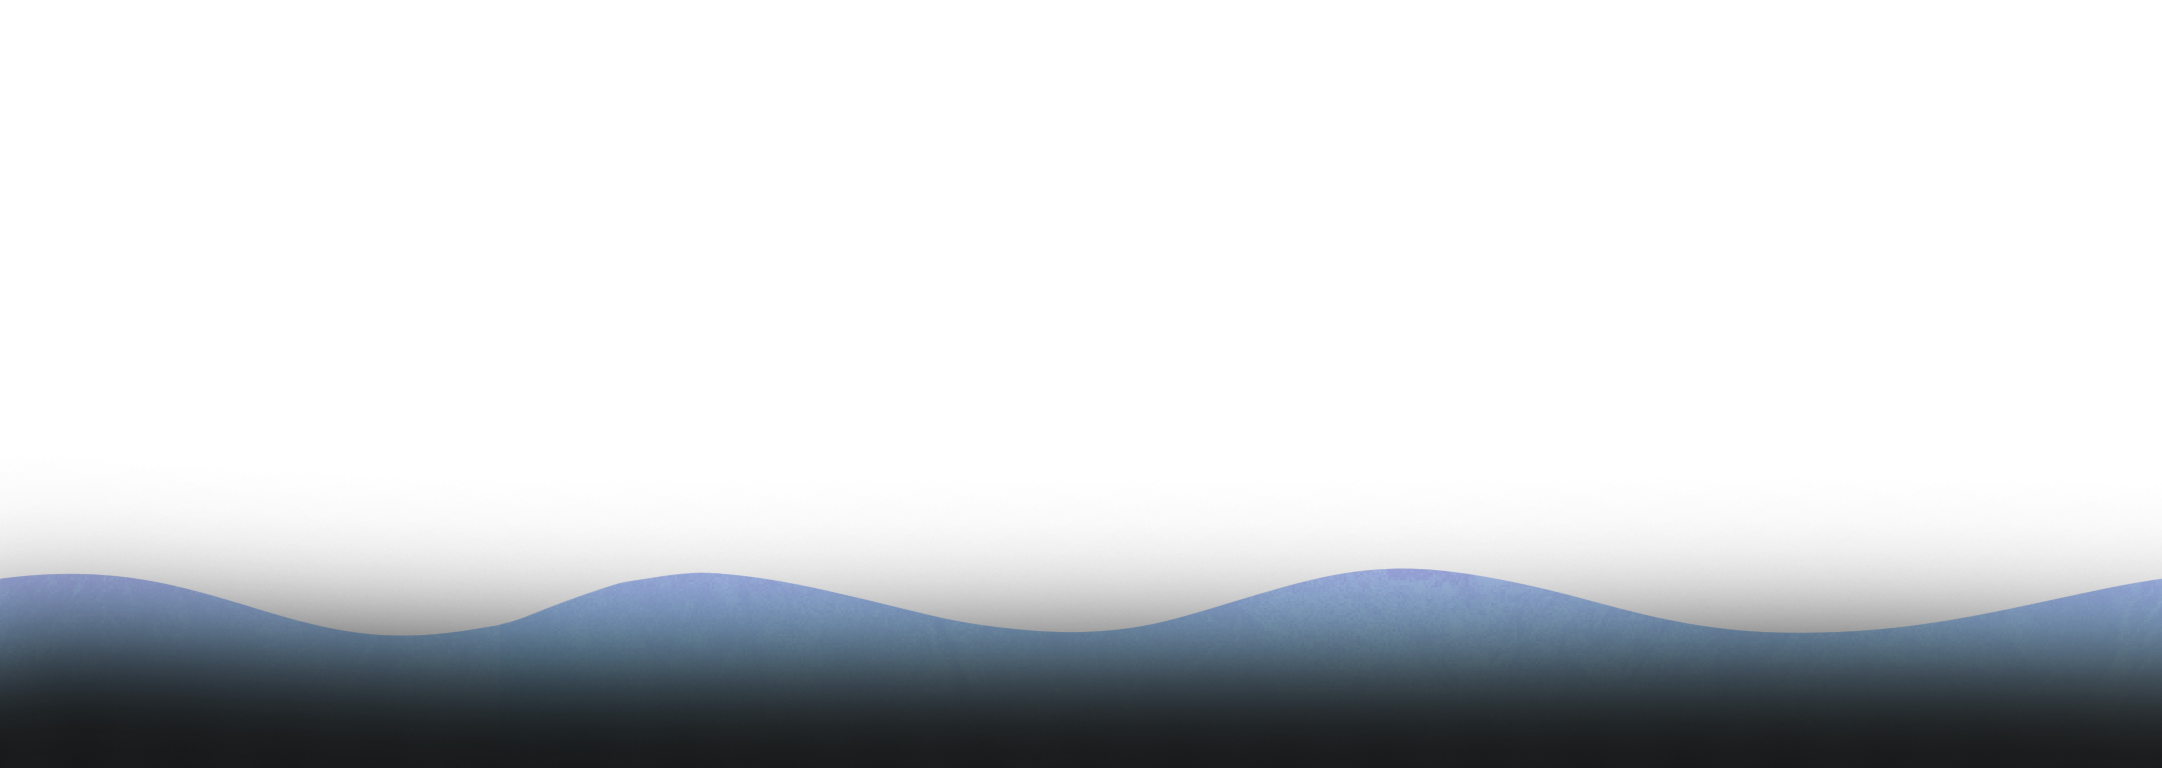
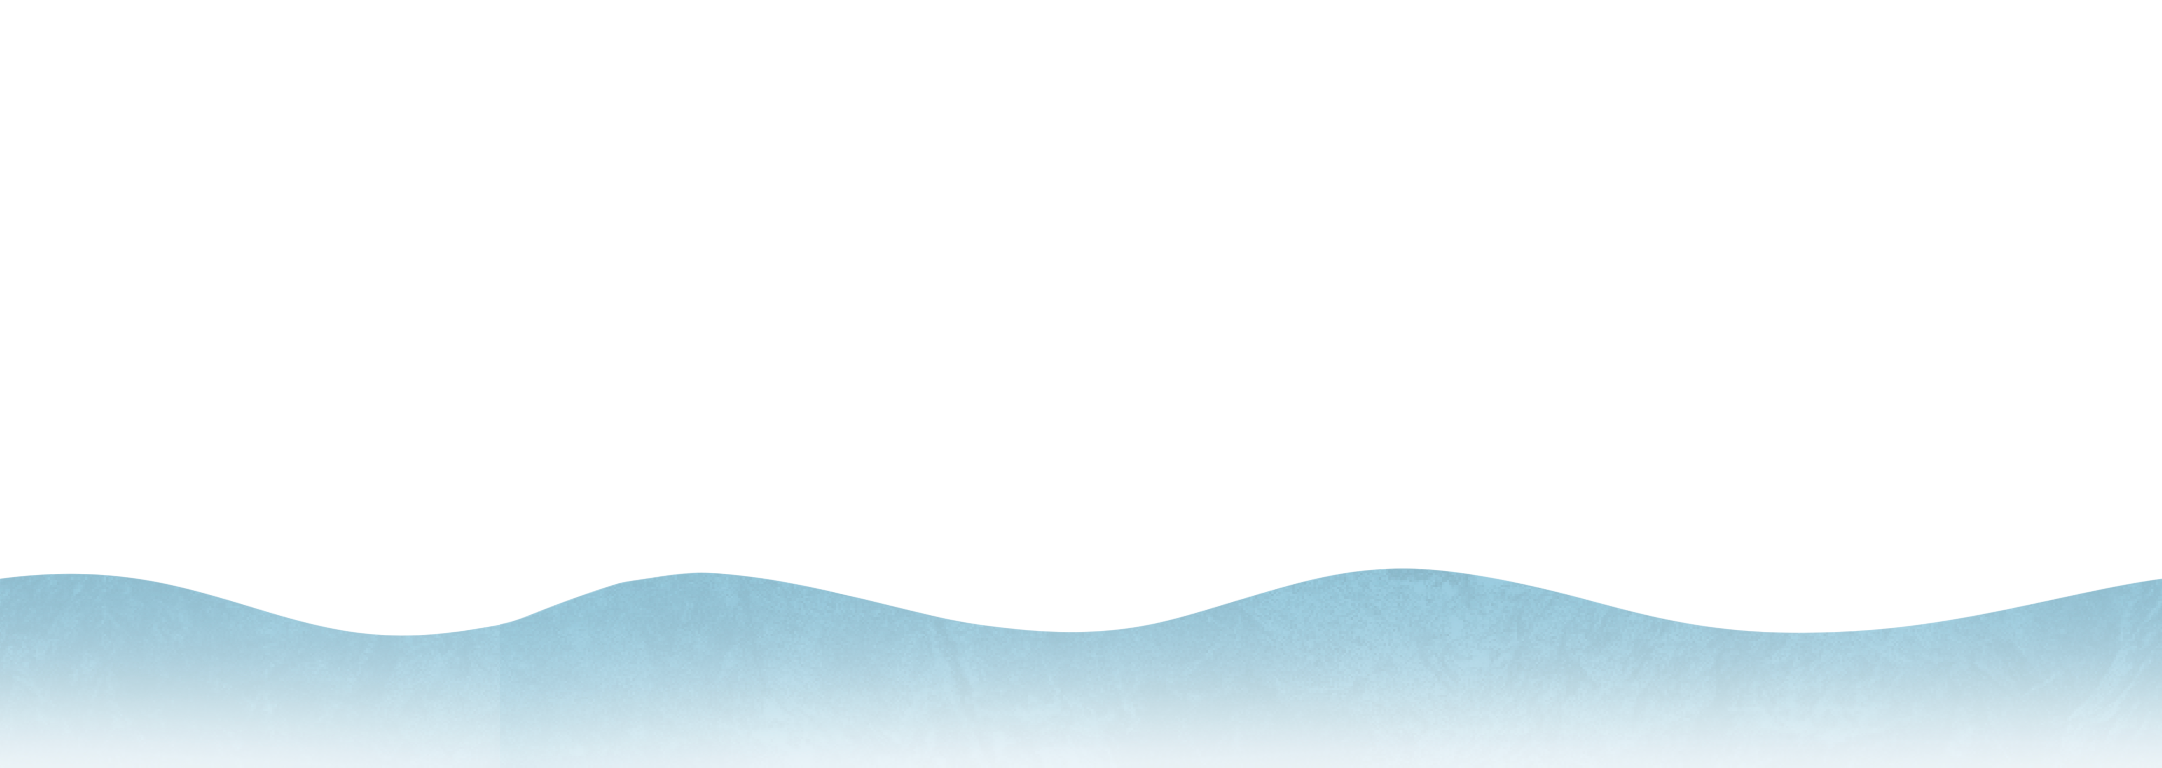
finished bg
parallaxing bg

Changed region(s): [[0.0, 0.6875, 1.0, 1.0]]

diff --git a/Assets/Parallax.cs b/Assets/Parallax.cs
@@ -4,15 +4,26 @@ using UnityEngine;
 
 public class Parallax : MonoBehaviour
 {
-    // Start is called before the first frame update
+    GameObject player;
+    Renderer rend;
+
+    float playerStartPos;
+    public float speed = 0.5f;
+
     void Start()
     {
-        
+
+        player = GameObject.Find("Player");
+        rend = GetComponent<Renderer>();
+        playerStartPos = player.transform.position.x;
+
     }
 
     // Update is called once per frame
     void Update()
     {
-        
+        float offset = (player.transform.position.x - playerStartPos) * speed;
+
+        rend.material.SetTextureOffset("_MainTex", new Vector2(offset, 0f));
     }
 }
